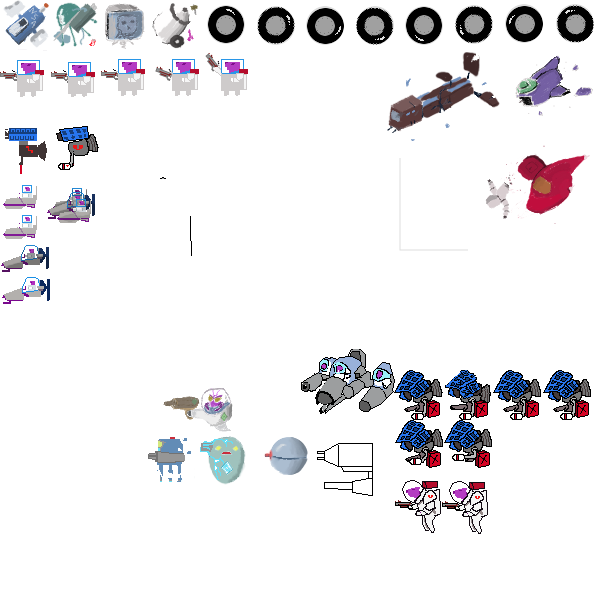
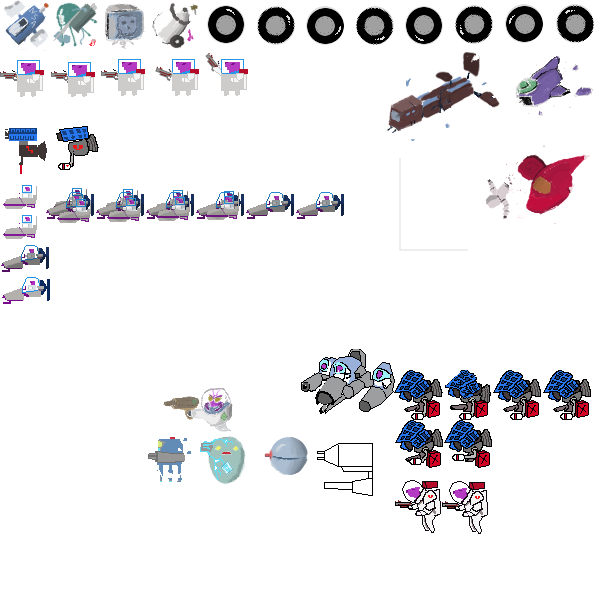
battleship animation

Changed region(s): [[0.15, 0.3, 0.6, 0.39], [0.09, 0.33, 0.12, 0.36]]

diff --git a/app/scripts/game/entities.js b/app/scripts/game/entities.js
@@ -37,7 +37,7 @@ define( [ 'game/models/models','petra', 'hu'], function(Models,petra, hu){
       aiming :['images/enemies/level_1.png', [0,125], [50, 50], 1, [0],true]
     }
   }
-  var level1_battleStationSprite  = ['images/enemies/level_1.png', [45,185], [50, 40], 1, [0], true];
+  var level1_battleStationSprite  = ['images/enemies/level_1.png', [45,185], [50, 40], 3, [0,1,2,3,2,1,0], true];
   
   var level1_worm_headSprite  = ['images/enemies/level_1.png', [0,150], [50, 50], 1, [0], true];
   var level1_worm_bodySprite  = ['images/enemies/level_1.png', [50,150], [50, 50], 1, [0], true];
